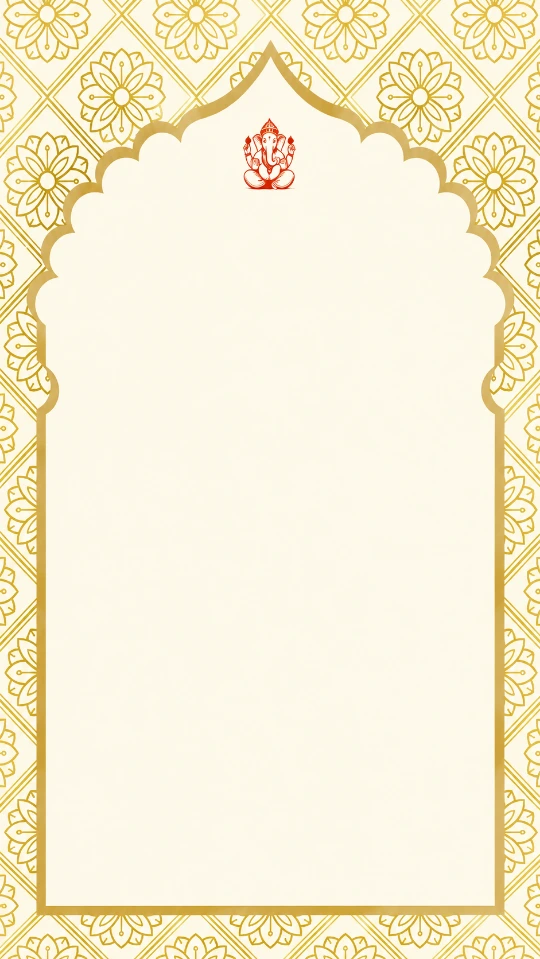
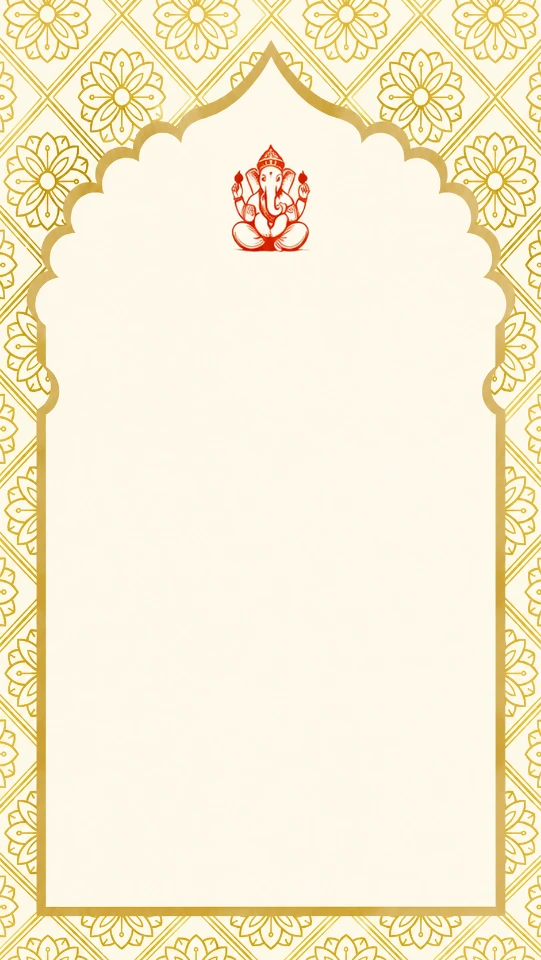
Add files via upload

diff --git a/free_hindi.html b/free_hindi.html
@@ -170,7 +170,7 @@
             इस फॉर्म को भरने के बाद आप अपना फ्री कार्ड (इमेज) डाउनलोड कर सकते हैं।
         </h4>
         <span class="offer-badge">Full PDF card, Rs. 155</span>
-
+		<br>
         <div class="field">
             <input id="f1" maxlength="25" placeholder="दुल्हन का नाम" autocomplete="off">
             <div class="limit">25</div>
@@ -233,7 +233,7 @@ const H = canvas.height;  // 960
 // Files sit in the same folder as this page.
 const SAMPLE_IMAGES = {
     'hin-1': { file: 'h-1.webp', color: '#5C0000', shadow: 'rgba(255,255,255,0.9)' },
-    'hin-2': { file: 'h-2.webp', color: '#FFFFFF', shadow: 'rgba(0,0,0,0.7)' },
+    'hin-2': { file: 'hin -3.png', color: '#FFFFFF', shadow: 'rgba(0,0,0,0.7)' },
     'eng-1': { file: 'e-1.webp', color: '#5C0000', shadow: 'rgba(255,255,255,0.9)' },
     'eng-2': { file: 'e-2.webp', color: '#5C0000', shadow: 'rgba(255,255,255,0.9)' },
     // older keys still sent by previous links
@@ -249,18 +249,18 @@ const textShadow = sample.shadow;
 
 // Text positions for the 540 x 960 canvas
 const LAYOUT = {
-    greet1:   { x: 270, y: 230, size: 15, weight: "normal" },
-    greet2:   { x: 270, y: 260, size: 15, weight: "normal" },
-    name1:    { x: 270, y: 320, size: 31, weight: "bold" },
-    parents1: { x: 270, y: 358, size: 18, weight: "normal" },
-    sang:     { x: 270, y: 410, size: 17, weight: "bold" },
-    name2:    { x: 270, y: 467, size: 31, weight: "bold" },
-    parents2: { x: 270, y: 503, size: 18, weight: "normal" },
-    occasion1:{ x: 270, y: 550, size: 15, weight: "normal" },
-    occasion2:{ x: 270, y: 581, size: 15, weight: "normal" },
+    greet1:   { x: 270, y: 270, size: 15, weight: "normal" },
+    greet2:   { x: 270, y: 300, size: 15, weight: "normal" },
+    name1:    { x: 270, y: 360, size: 31, weight: "bold" },
+    parents1: { x: 270, y: 395, size: 18, weight: "normal" },
+    sang:     { x: 270, y: 440, size: 17, weight: "bold" },
+    name2:    { x: 270, y: 492, size: 31, weight: "bold" },
+    parents2: { x: 270, y: 528, size: 18, weight: "normal" },
+    occasion1:{ x: 270, y: 565, size: 15, weight: "normal" },
+    occasion2:{ x: 270, y: 596, size: 15, weight: "normal" },
     shubh:    { x: 270, y: 634, size: 15, weight: "bold" },
-    date:     { x: 270, y: 672, size: 19, weight: "bold" },
-    time:     { x: 270, y: 704, size: 19, weight: "bold" },
+    date:     { x: 270, y: 687, size: 19, weight: "bold" },
+    time:     { x: 270, y: 719, size: 19, weight: "bold" },
     venueHead:{ x: 270, y: 762, size: 17, weight: "bold" },
     venue1:   { x: 270, y: 799, size: 18, weight: "normal" },
     venue2:   { x: 270, y: 832, size: 18, weight: "normal" },

diff --git a/free_eng.html b/free_eng.html
@@ -170,7 +170,7 @@
             After filling this form, you can download your free card image.
         </h3>
         <span class="offer-badge">Full PDF card, Rs. 155</span>
-
+			<br>
         <div class="field">
             <input id="f1" maxlength="25" placeholder="Bride Name" autocomplete="off">
             <div class="limit">25</div>
